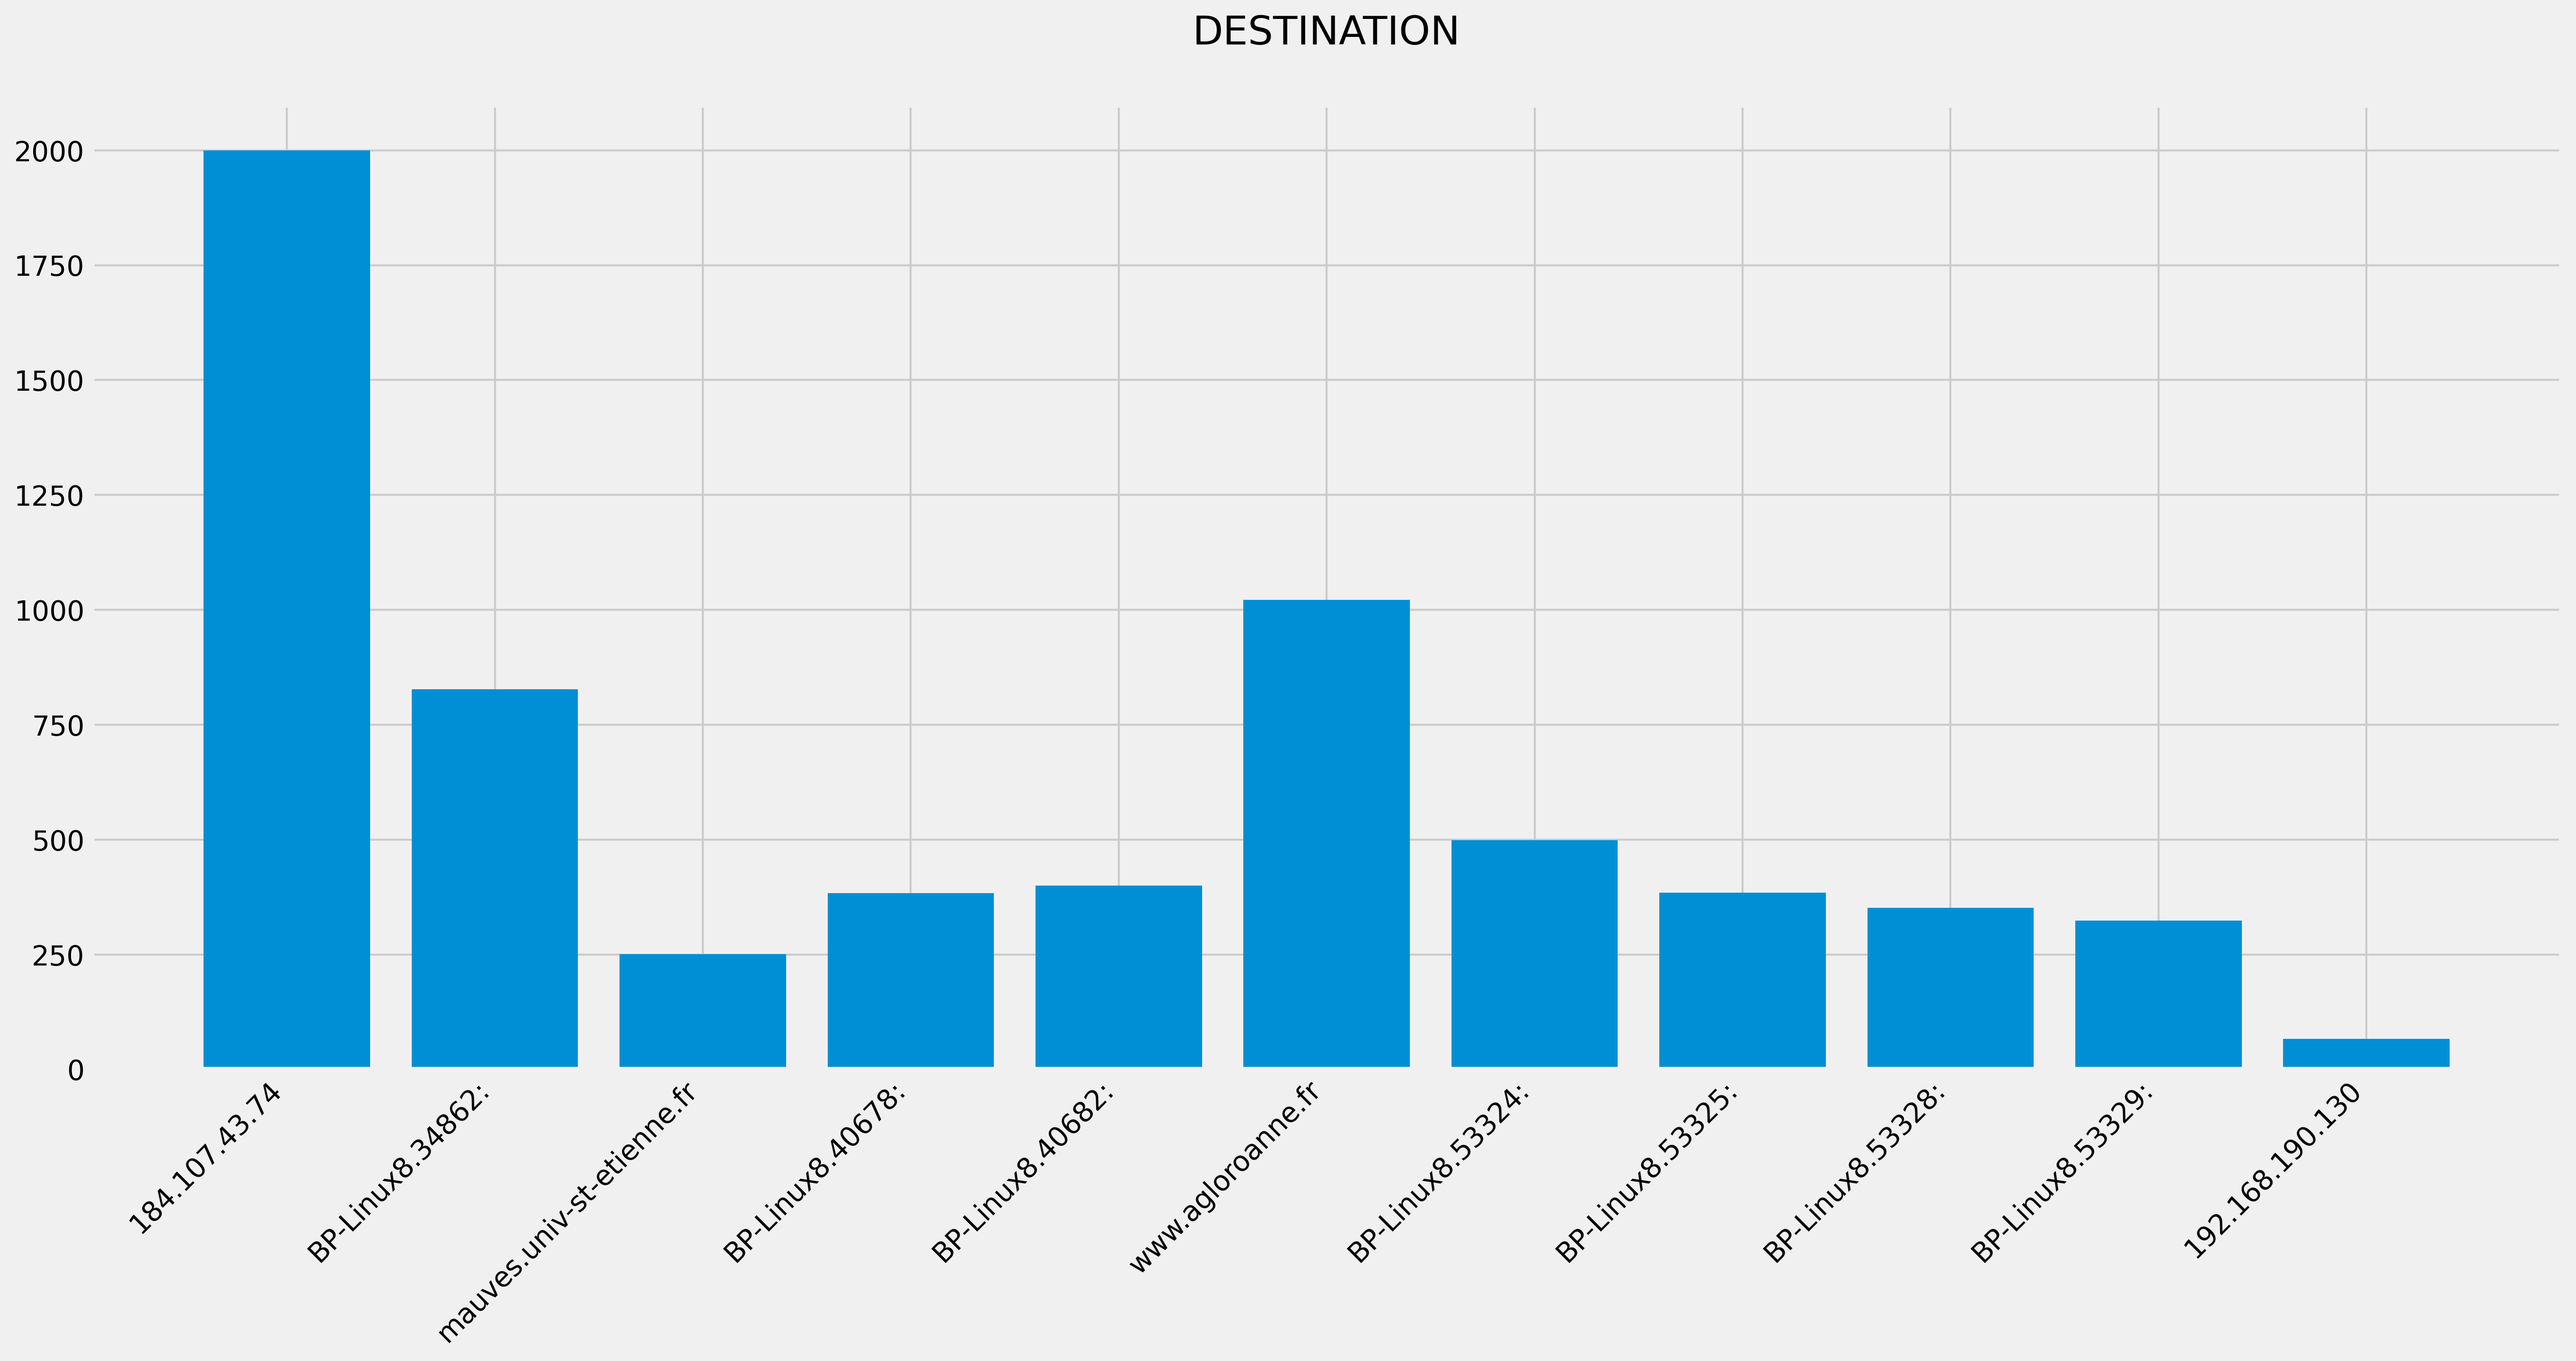
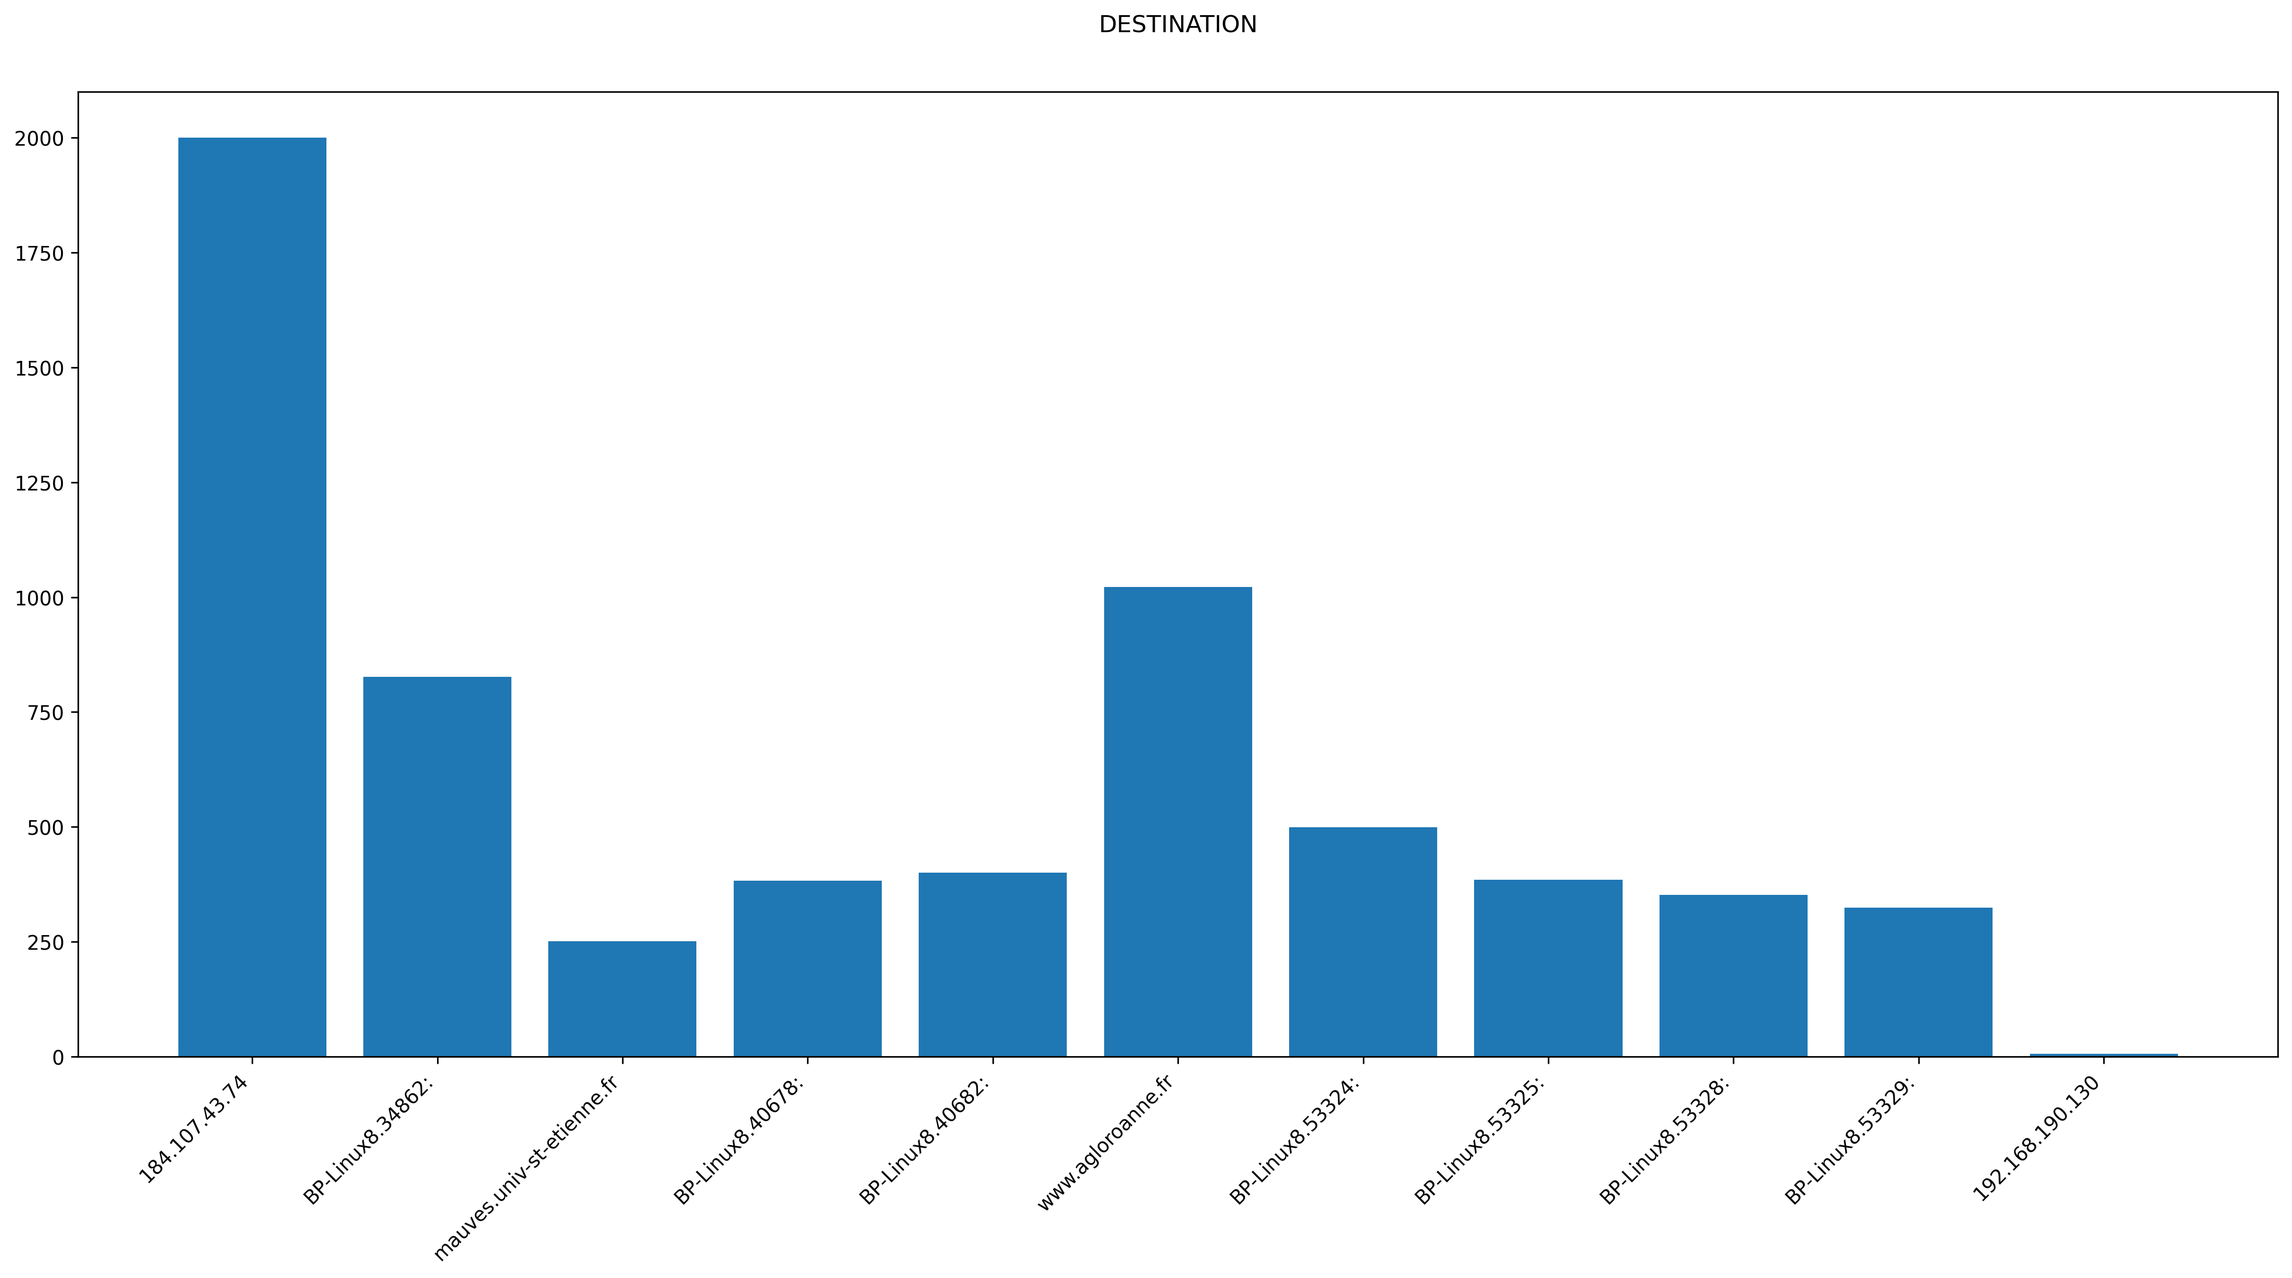
final

diff --git a/graphique.html b/graphique.html
@@ -40,12 +40,12 @@
 			<br><br>
 			<h3><p>Graphique des Destinations et Sources (vertical) :</p></h3>
 				<br><br>
-				<img src="sourcebar.png" alt="  " class="img1">
+				<img src="sourcebar.png" alt="  " class="img2">
 				
 				
 				
 				
-				<img src="destinationbar.png" alt=" " class="img1">
+				<img src="destinationbar.png" alt=" " class="img2">
 				
 			</div>
 			

diff --git a/css.css b/css.css
@@ -8,13 +8,13 @@
 }
 
 .img2{
-	  position : absolute;
+
 	  outline: none;
 	  border-radius: 4%;
 	  resize: none;
-	  width: 39%;
+	  width: 45%;
 	  align-items: center;
-	  left :50%;
+	  right : 30%;
 
 }
 .img1{
@@ -22,7 +22,7 @@
 	  outline: none;
 	  border-radius: 4%;
 	  resize: none;
-	  width: 39%;
+	  width: 41%;
 	  align-items: center;
 	  right : 30%;
 

diff --git a/temp.py b/temp.py
@@ -1,3 +1,7 @@
+#VERY IMPORTANT: if you copy my programme don't forget to change the start and end date of the programme
+
+#We import what we need
+
 import numpy as np
 import datetime
 import os
@@ -62,7 +66,7 @@ characters = ":" #define a variable with the character ":" for the following
 
 for event in ress:
 #I'm saying that for any event that starts with "11:42" I do what's in the loop
-        if event.startswith('11:42'): 
+        if event.startswith('11:42'):  #WARNING: It is this date that you must change according to the information in your file
 #Create variables and reset them to 0 
             seq = ""
             heure1 = ""
@@ -149,6 +153,7 @@ for event in ress:
                     length=length1[2] 
                     length = length.replace(characters,"") #I replace "characters" with " " to avoid the spreadsheet writing as a date
             if event.startswith("11:42:55.536521") :  #When the program reaches the last line of the text file then ...
+#WARNING: It is this date that you must change according to the information in your file
                 prog=0    #To tell him to stop spinning
             evenement=heure1+";"+nomip+ ";" +port+ ";" + p2+ ";"+flag+ ";" +seq+ ";" +ack+ ";" +win+ ";" +options+ ";" +length
             f.write(evenement + "\n") #I write "event" in the csv and return to the line
@@ -210,7 +215,7 @@ fig.savefig("destinationbar.png", dpi=300, bbox_inches="tight")
 
 
 x=["184.107.43.74","BP-Linux8.34862:","mauves.univ-st-etienne.fr","BP-Linux8.40678:","BP-Linux8.40682:","www.agloroanne.fr","BP-Linux8.53324:","BP-Linux8.53325:","BP-Linux8.53328:","BP-Linux8.53329:", "192.168.190.130"]
-y = [2000,827,251,383,400,1022,499,385,352,324,66]
+y = [2000,827,251,383,400,1022,499,385,352,324,6]
 fig, ax = plt.subplots(figsize=(20, 10))
 
 ax.set_yticks(np.arange(0, 4000, 250))
@@ -223,10 +228,7 @@ ax.bar(x, y)
 fig.savefig("sourcebar.png", dpi=300, bbox_inches="tight")
 
 
+
 #Pour fermer les fichier
 plt.show()            
 f.close()
-
-
-
-
